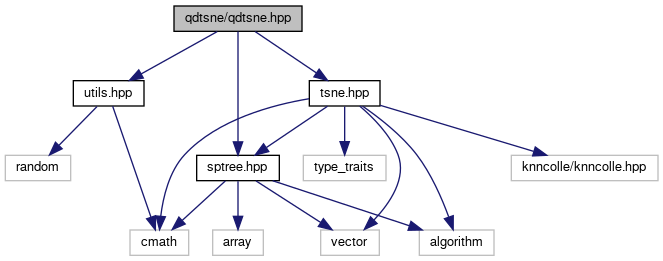
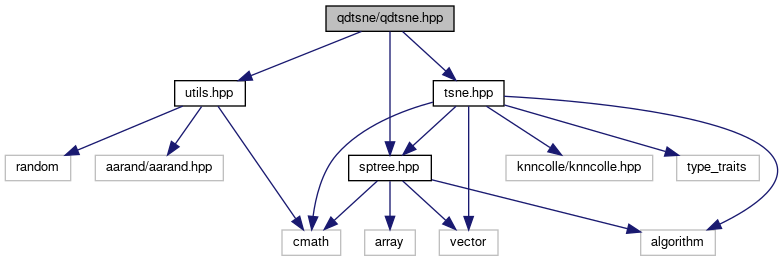
Deploying to gh-pages from @ LTLA/qdtsne@575ea352553593d9f6348365125df40e0dfbeb32 🚀

diff --git a/docs/utils_8hpp_source.html b/docs/utils_8hpp_source.html
@@ -76,59 +76,46 @@ $(function() {
 <div class="line"><a id="l00003" name="l00003"></a><span class="lineno">    3</span> </div>
 <div class="line"><a id="l00010" name="l00010"></a><span class="lineno">   10</span><span class="preprocessor">#include &lt;random&gt;</span></div>
 <div class="line"><a id="l00011" name="l00011"></a><span class="lineno">   11</span><span class="preprocessor">#include &lt;cmath&gt;</span></div>
-<div class="line"><a id="l00012" name="l00012"></a><span class="lineno">   12</span> </div>
-<div class="line"><a id="l00013" name="l00013"></a><span class="lineno">   13</span><span class="keyword">namespace </span>qdtsne {</div>
-<div class="line"><a id="l00014" name="l00014"></a><span class="lineno">   14</span> </div>
-<div class="line"><a id="l00015" name="l00015"></a><span class="lineno">   15</span><span class="keyword">template</span>&lt;<span class="keyword">class</span> Engine&gt;</div>
-<div class="line"><a id="l00016" name="l00016"></a><span class="lineno">   16</span><span class="keywordtype">double</span> uniform01 (Engine&amp; eng) {</div>
-<div class="line"><a id="l00017" name="l00017"></a><span class="lineno">   17</span>    <span class="comment">// Stolen from Boost.</span></div>
-<div class="line"><a id="l00018" name="l00018"></a><span class="lineno">   18</span>    <span class="keyword">const</span> <span class="keywordtype">double</span> factor = 1.0 / <span class="keyword">static_cast&lt;</span><span class="keywordtype">double</span><span class="keyword">&gt;</span>((eng.max)()-(eng.min)());</div>
-<div class="line"><a id="l00019" name="l00019"></a><span class="lineno">   19</span>    <span class="keywordtype">double</span> result;</div>
-<div class="line"><a id="l00020" name="l00020"></a><span class="lineno">   20</span>    <span class="keywordflow">do</span> {</div>
-<div class="line"><a id="l00021" name="l00021"></a><span class="lineno">   21</span>        result = <span class="keyword">static_cast&lt;</span><span class="keywordtype">double</span><span class="keyword">&gt;</span>(eng() - (eng.min)()) * factor;</div>
-<div class="line"><a id="l00022" name="l00022"></a><span class="lineno">   22</span>    } <span class="keywordflow">while</span> (result == 1.0);</div>
-<div class="line"><a id="l00023" name="l00023"></a><span class="lineno">   23</span>    <span class="keywordflow">return</span> result;</div>
-<div class="line"><a id="l00024" name="l00024"></a><span class="lineno">   24</span>}</div>
-<div class="line"><a id="l00025" name="l00025"></a><span class="lineno">   25</span> </div>
-<div class="line"><a id="l00039" name="l00039"></a><span class="lineno">   39</span><span class="keyword">template</span>&lt;<span class="keywordtype">int</span> ndim = 2&gt;</div>
-<div class="line"><a id="l00040" name="l00040"></a><span class="lineno">   40</span><span class="keywordtype">void</span> initialize_random(<span class="keywordtype">double</span>* Y, <span class="keywordtype">size_t</span> N, <span class="keywordtype">int</span> seed = 42) {</div>
-<div class="line"><a id="l00041" name="l00041"></a><span class="lineno">   41</span>    std::mt19937_64 rng(seed);</div>
-<div class="line"><a id="l00042" name="l00042"></a><span class="lineno">   42</span>    <span class="keyword">constexpr</span> <span class="keywordtype">double</span> pi = 3.14159265358979323846;</div>
-<div class="line"><a id="l00043" name="l00043"></a><span class="lineno">   43</span> </div>
-<div class="line"><a id="l00044" name="l00044"></a><span class="lineno">   44</span>    <span class="keywordtype">size_t</span> total = N * ndim;</div>
-<div class="line"><a id="l00045" name="l00045"></a><span class="lineno">   45</span>    <span class="keywordtype">bool</span> odd = total % 2;</div>
+<div class="line"><a id="l00012" name="l00012"></a><span class="lineno">   12</span><span class="preprocessor">#include &quot;aarand/aarand.hpp&quot;</span></div>
+<div class="line"><a id="l00013" name="l00013"></a><span class="lineno">   13</span> </div>
+<div class="line"><a id="l00014" name="l00014"></a><span class="lineno">   14</span><span class="keyword">namespace </span>qdtsne {</div>
+<div class="line"><a id="l00015" name="l00015"></a><span class="lineno">   15</span> </div>
+<div class="line"><a id="l00029" name="l00029"></a><span class="lineno">   29</span><span class="keyword">template</span>&lt;<span class="keywordtype">int</span> ndim = 2&gt;</div>
+<div class="line"><a id="l00030" name="l00030"></a><span class="lineno">   30</span><span class="keywordtype">void</span> initialize_random(<span class="keywordtype">double</span>* Y, <span class="keywordtype">size_t</span> N, <span class="keywordtype">int</span> seed = 42) {</div>
+<div class="line"><a id="l00031" name="l00031"></a><span class="lineno">   31</span>    std::mt19937_64 rng(seed);</div>
+<div class="line"><a id="l00032" name="l00032"></a><span class="lineno">   32</span> </div>
+<div class="line"><a id="l00033" name="l00033"></a><span class="lineno">   33</span>    <span class="keywordtype">size_t</span> total = N * ndim;</div>
+<div class="line"><a id="l00034" name="l00034"></a><span class="lineno">   34</span>    <span class="keywordtype">bool</span> odd = total % 2;</div>
+<div class="line"><a id="l00035" name="l00035"></a><span class="lineno">   35</span>    <span class="keywordflow">if</span> (odd) {</div>
+<div class="line"><a id="l00036" name="l00036"></a><span class="lineno">   36</span>        --total;</div>
+<div class="line"><a id="l00037" name="l00037"></a><span class="lineno">   37</span>    }</div>
+<div class="line"><a id="l00038" name="l00038"></a><span class="lineno">   38</span> </div>
+<div class="line"><a id="l00039" name="l00039"></a><span class="lineno">   39</span>    <span class="comment">// Box-Muller gives us two random values at a time.</span></div>
+<div class="line"><a id="l00040" name="l00040"></a><span class="lineno">   40</span>    <span class="keywordflow">for</span> (<span class="keywordtype">size_t</span> i = 0; i &lt; total; i += 2) {</div>
+<div class="line"><a id="l00041" name="l00041"></a><span class="lineno">   41</span>        <span class="keyword">auto</span> paired = aarand::standard_normal(rng);</div>
+<div class="line"><a id="l00042" name="l00042"></a><span class="lineno">   42</span>        Y[i] = paired.first;</div>
+<div class="line"><a id="l00043" name="l00043"></a><span class="lineno">   43</span>        Y[i + 1] = paired.second;</div>
+<div class="line"><a id="l00044" name="l00044"></a><span class="lineno">   44</span>    }</div>
+<div class="line"><a id="l00045" name="l00045"></a><span class="lineno">   45</span> </div>
 <div class="line"><a id="l00046" name="l00046"></a><span class="lineno">   46</span>    <span class="keywordflow">if</span> (odd) {</div>
-<div class="line"><a id="l00047" name="l00047"></a><span class="lineno">   47</span>        --total;</div>
-<div class="line"><a id="l00048" name="l00048"></a><span class="lineno">   48</span>    }</div>
-<div class="line"><a id="l00049" name="l00049"></a><span class="lineno">   49</span> </div>
-<div class="line"><a id="l00050" name="l00050"></a><span class="lineno">   50</span>    <span class="comment">// Box-Muller gives us two random values at a time.</span></div>
-<div class="line"><a id="l00051" name="l00051"></a><span class="lineno">   51</span>    <span class="keywordflow">for</span> (<span class="keywordtype">size_t</span> i = 0; i &lt; total; i += 2) {</div>
-<div class="line"><a id="l00052" name="l00052"></a><span class="lineno">   52</span>        <span class="keywordtype">double</span> constant = std::sqrt(-2 * std::log(uniform01(rng)));</div>
-<div class="line"><a id="l00053" name="l00053"></a><span class="lineno">   53</span>        <span class="keywordtype">double</span> angle = 2 * pi * uniform01(rng);</div>
-<div class="line"><a id="l00054" name="l00054"></a><span class="lineno">   54</span>        Y[i] = constant * std::sin(angle);</div>
-<div class="line"><a id="l00055" name="l00055"></a><span class="lineno">   55</span>        Y[i + 1] = constant * std::cos(angle);</div>
-<div class="line"><a id="l00056" name="l00056"></a><span class="lineno">   56</span>    }</div>
-<div class="line"><a id="l00057" name="l00057"></a><span class="lineno">   57</span> </div>
-<div class="line"><a id="l00058" name="l00058"></a><span class="lineno">   58</span>    <span class="keywordflow">if</span> (odd) {</div>
-<div class="line"><a id="l00059" name="l00059"></a><span class="lineno">   59</span>        <span class="comment">// Adding the poor extra for odd total lengths.</span></div>
-<div class="line"><a id="l00060" name="l00060"></a><span class="lineno">   60</span>        <span class="keywordtype">double</span> constant = std::sqrt(-2 * std::log(uniform01(rng)));</div>
-<div class="line"><a id="l00061" name="l00061"></a><span class="lineno">   61</span>        <span class="keywordtype">double</span> angle = 2 * pi * uniform01(rng);</div>
-<div class="line"><a id="l00062" name="l00062"></a><span class="lineno">   62</span>        Y[total] = constant * std::sin(angle);</div>
-<div class="line"><a id="l00063" name="l00063"></a><span class="lineno">   63</span>    }</div>
-<div class="line"><a id="l00064" name="l00064"></a><span class="lineno">   64</span> </div>
-<div class="line"><a id="l00065" name="l00065"></a><span class="lineno">   65</span>    <span class="keywordflow">return</span>;</div>
-<div class="line"><a id="l00066" name="l00066"></a><span class="lineno">   66</span>}</div>
-<div class="line"><a id="l00067" name="l00067"></a><span class="lineno">   67</span> </div>
-<div class="line"><a id="l00078" name="l00078"></a><span class="lineno">   78</span><span class="keyword">template</span>&lt;<span class="keywordtype">int</span> ndim = 2&gt;</div>
-<div class="line"><a id="l00079" name="l00079"></a><span class="lineno">   79</span>std::vector&lt;double&gt; initialize_random(<span class="keywordtype">size_t</span> N, <span class="keywordtype">int</span> seed = 42) {</div>
-<div class="line"><a id="l00080" name="l00080"></a><span class="lineno">   80</span>    std::vector&lt;double&gt; Y(ndim * N);</div>
-<div class="line"><a id="l00081" name="l00081"></a><span class="lineno">   81</span>    initialize_random&lt;ndim&gt;(Y.data(), N, seed);</div>
-<div class="line"><a id="l00082" name="l00082"></a><span class="lineno">   82</span>    <span class="keywordflow">return</span> Y;</div>
-<div class="line"><a id="l00083" name="l00083"></a><span class="lineno">   83</span>}</div>
-<div class="line"><a id="l00084" name="l00084"></a><span class="lineno">   84</span> </div>
-<div class="line"><a id="l00085" name="l00085"></a><span class="lineno">   85</span>}</div>
-<div class="line"><a id="l00086" name="l00086"></a><span class="lineno">   86</span> </div>
-<div class="line"><a id="l00087" name="l00087"></a><span class="lineno">   87</span><span class="preprocessor">#endif</span></div>
+<div class="line"><a id="l00047" name="l00047"></a><span class="lineno">   47</span>        <span class="comment">// Adding the poor extra for odd total lengths.</span></div>
+<div class="line"><a id="l00048" name="l00048"></a><span class="lineno">   48</span>        <span class="keyword">auto</span> paired = aarand::standard_normal(rng);</div>
+<div class="line"><a id="l00049" name="l00049"></a><span class="lineno">   49</span>        Y[total] = paired.first;</div>
+<div class="line"><a id="l00050" name="l00050"></a><span class="lineno">   50</span>    }</div>
+<div class="line"><a id="l00051" name="l00051"></a><span class="lineno">   51</span> </div>
+<div class="line"><a id="l00052" name="l00052"></a><span class="lineno">   52</span>    <span class="keywordflow">return</span>;</div>
+<div class="line"><a id="l00053" name="l00053"></a><span class="lineno">   53</span>}</div>
+<div class="line"><a id="l00054" name="l00054"></a><span class="lineno">   54</span> </div>
+<div class="line"><a id="l00065" name="l00065"></a><span class="lineno">   65</span><span class="keyword">template</span>&lt;<span class="keywordtype">int</span> ndim = 2&gt;</div>
+<div class="line"><a id="l00066" name="l00066"></a><span class="lineno">   66</span>std::vector&lt;double&gt; initialize_random(<span class="keywordtype">size_t</span> N, <span class="keywordtype">int</span> seed = 42) {</div>
+<div class="line"><a id="l00067" name="l00067"></a><span class="lineno">   67</span>    std::vector&lt;double&gt; Y(ndim * N);</div>
+<div class="line"><a id="l00068" name="l00068"></a><span class="lineno">   68</span>    initialize_random&lt;ndim&gt;(Y.data(), N, seed);</div>
+<div class="line"><a id="l00069" name="l00069"></a><span class="lineno">   69</span>    <span class="keywordflow">return</span> Y;</div>
+<div class="line"><a id="l00070" name="l00070"></a><span class="lineno">   70</span>}</div>
+<div class="line"><a id="l00071" name="l00071"></a><span class="lineno">   71</span> </div>
+<div class="line"><a id="l00072" name="l00072"></a><span class="lineno">   72</span>}</div>
+<div class="line"><a id="l00073" name="l00073"></a><span class="lineno">   73</span> </div>
+<div class="line"><a id="l00074" name="l00074"></a><span class="lineno">   74</span><span class="preprocessor">#endif</span></div>
 </div><!-- fragment --></div><!-- contents -->
 <!-- start footer part -->
 <hr class="footer"/><address class="footer"><small>

diff --git a/docs/qdtsne_8hpp.html b/docs/qdtsne_8hpp.html
@@ -82,17 +82,18 @@ Include dependency graph for qdtsne.hpp:</div>
 <div class="dyncontent">
 <div class="center"><img src="qdtsne_8hpp__incl.png" border="0" usemap="#aqdtsne_2qdtsne_8hpp" alt=""/></div>
 <map name="aqdtsne_2qdtsne_8hpp" id="aqdtsne_2qdtsne_8hpp">
-<area shape="rect" title="Umbrella header for all qdtsne files." alt="" coords="174,5,302,32"/>
-<area shape="rect" href="tsne_8hpp.html" title="Implements the t&#45;SNE algorithm." alt="" coords="309,80,380,107"/>
-<area shape="rect" href="sptree_8hpp_source.html" title=" " alt="" coords="197,155,279,181"/>
-<area shape="rect" href="utils_8hpp_source.html" title=" " alt="" coords="73,80,144,107"/>
-<area shape="rect" title=" " alt="" coords="130,229,189,256"/>
-<area shape="rect" title=" " alt="" coords="419,229,494,256"/>
-<area shape="rect" title=" " alt="" coords="321,229,379,256"/>
-<area shape="rect" title=" " alt="" coords="511,155,658,181"/>
-<area shape="rect" title=" " alt="" coords="303,155,386,181"/>
-<area shape="rect" title=" " alt="" coords="213,229,263,256"/>
+<area shape="rect" title="Umbrella header for all qdtsne files." alt="" coords="326,5,454,32"/>
+<area shape="rect" href="tsne_8hpp.html" title="Implements the t&#45;SNE algorithm." alt="" coords="433,80,504,107"/>
+<area shape="rect" href="sptree_8hpp_source.html" title=" " alt="" coords="349,155,431,181"/>
+<area shape="rect" href="utils_8hpp_source.html" title=" " alt="" coords="175,80,245,107"/>
+<area shape="rect" title=" " alt="" coords="282,229,341,256"/>
+<area shape="rect" title=" " alt="" coords="641,229,715,256"/>
+<area shape="rect" title=" " alt="" coords="439,229,498,256"/>
+<area shape="rect" title=" " alt="" coords="506,155,653,181"/>
+<area shape="rect" title=" " alt="" coords="677,155,759,181"/>
+<area shape="rect" title=" " alt="" coords="365,229,415,256"/>
 <area shape="rect" title=" " alt="" coords="5,155,71,181"/>
+<area shape="rect" title=" " alt="" coords="95,155,223,181"/>
 </map>
 </div>
 </div>

diff --git a/docs/index.html b/docs/index.html
@@ -117,7 +117,11 @@ $(function() {
 <div class="line"> </div>
 <div class="line"># For libaries</div>
 <div class="line">target_link_libraries(mylib INTERFACE qdtsne)</div>
-</div><!-- fragment --><p >Otherwise, you can just copy the header files in <code>include/</code> into some location that is visible to your compiler. This also requires the <a href="https://github.com/LTLA/knncolle"><b>knncolle</b></a> library for nearest neighbor search. If you are instead supplying your own neighbor search, this dependency can be eliminated by defining the <code>QDTSNE_CUSTOM_NEIGHBORS</code> macro.</p>
+</div><!-- fragment --><p >Otherwise, you can just copy the header files in <code>include/</code> into some location that is visible to your compiler. This requires the manual inclusion of a few dependencies:</p>
+<ul>
+<li>The <a href="https://github.com/LTLA/knncolle"><b>knncolle</b></a> library for nearest neighbor search. If you are instead supplying your own neighbor search, this dependency can be eliminated by defining the <code>QDTSNE_CUSTOM_NEIGHBORS</code> macro.</li>
+<li>The <a href="https://github.com/LTLA/aarand"><b>aarand</b></a> library for random distribution functions.</li>
+</ul>
 <h1>References</h1>
 <p >van der Maaten, L.J.P. and Hinton, G.E. (2008). Visualizing high-dimensional data using t-SNE. <em>Journal of Machine Learning Research</em>, 9, 2579-2605.</p>
 <p >van der Maaten, L.J.P. (2014). Accelerating t-SNE using tree-based algorithms. <em>Journal of Machine Learning Research</em>, 15, 3221-3245. </p>
